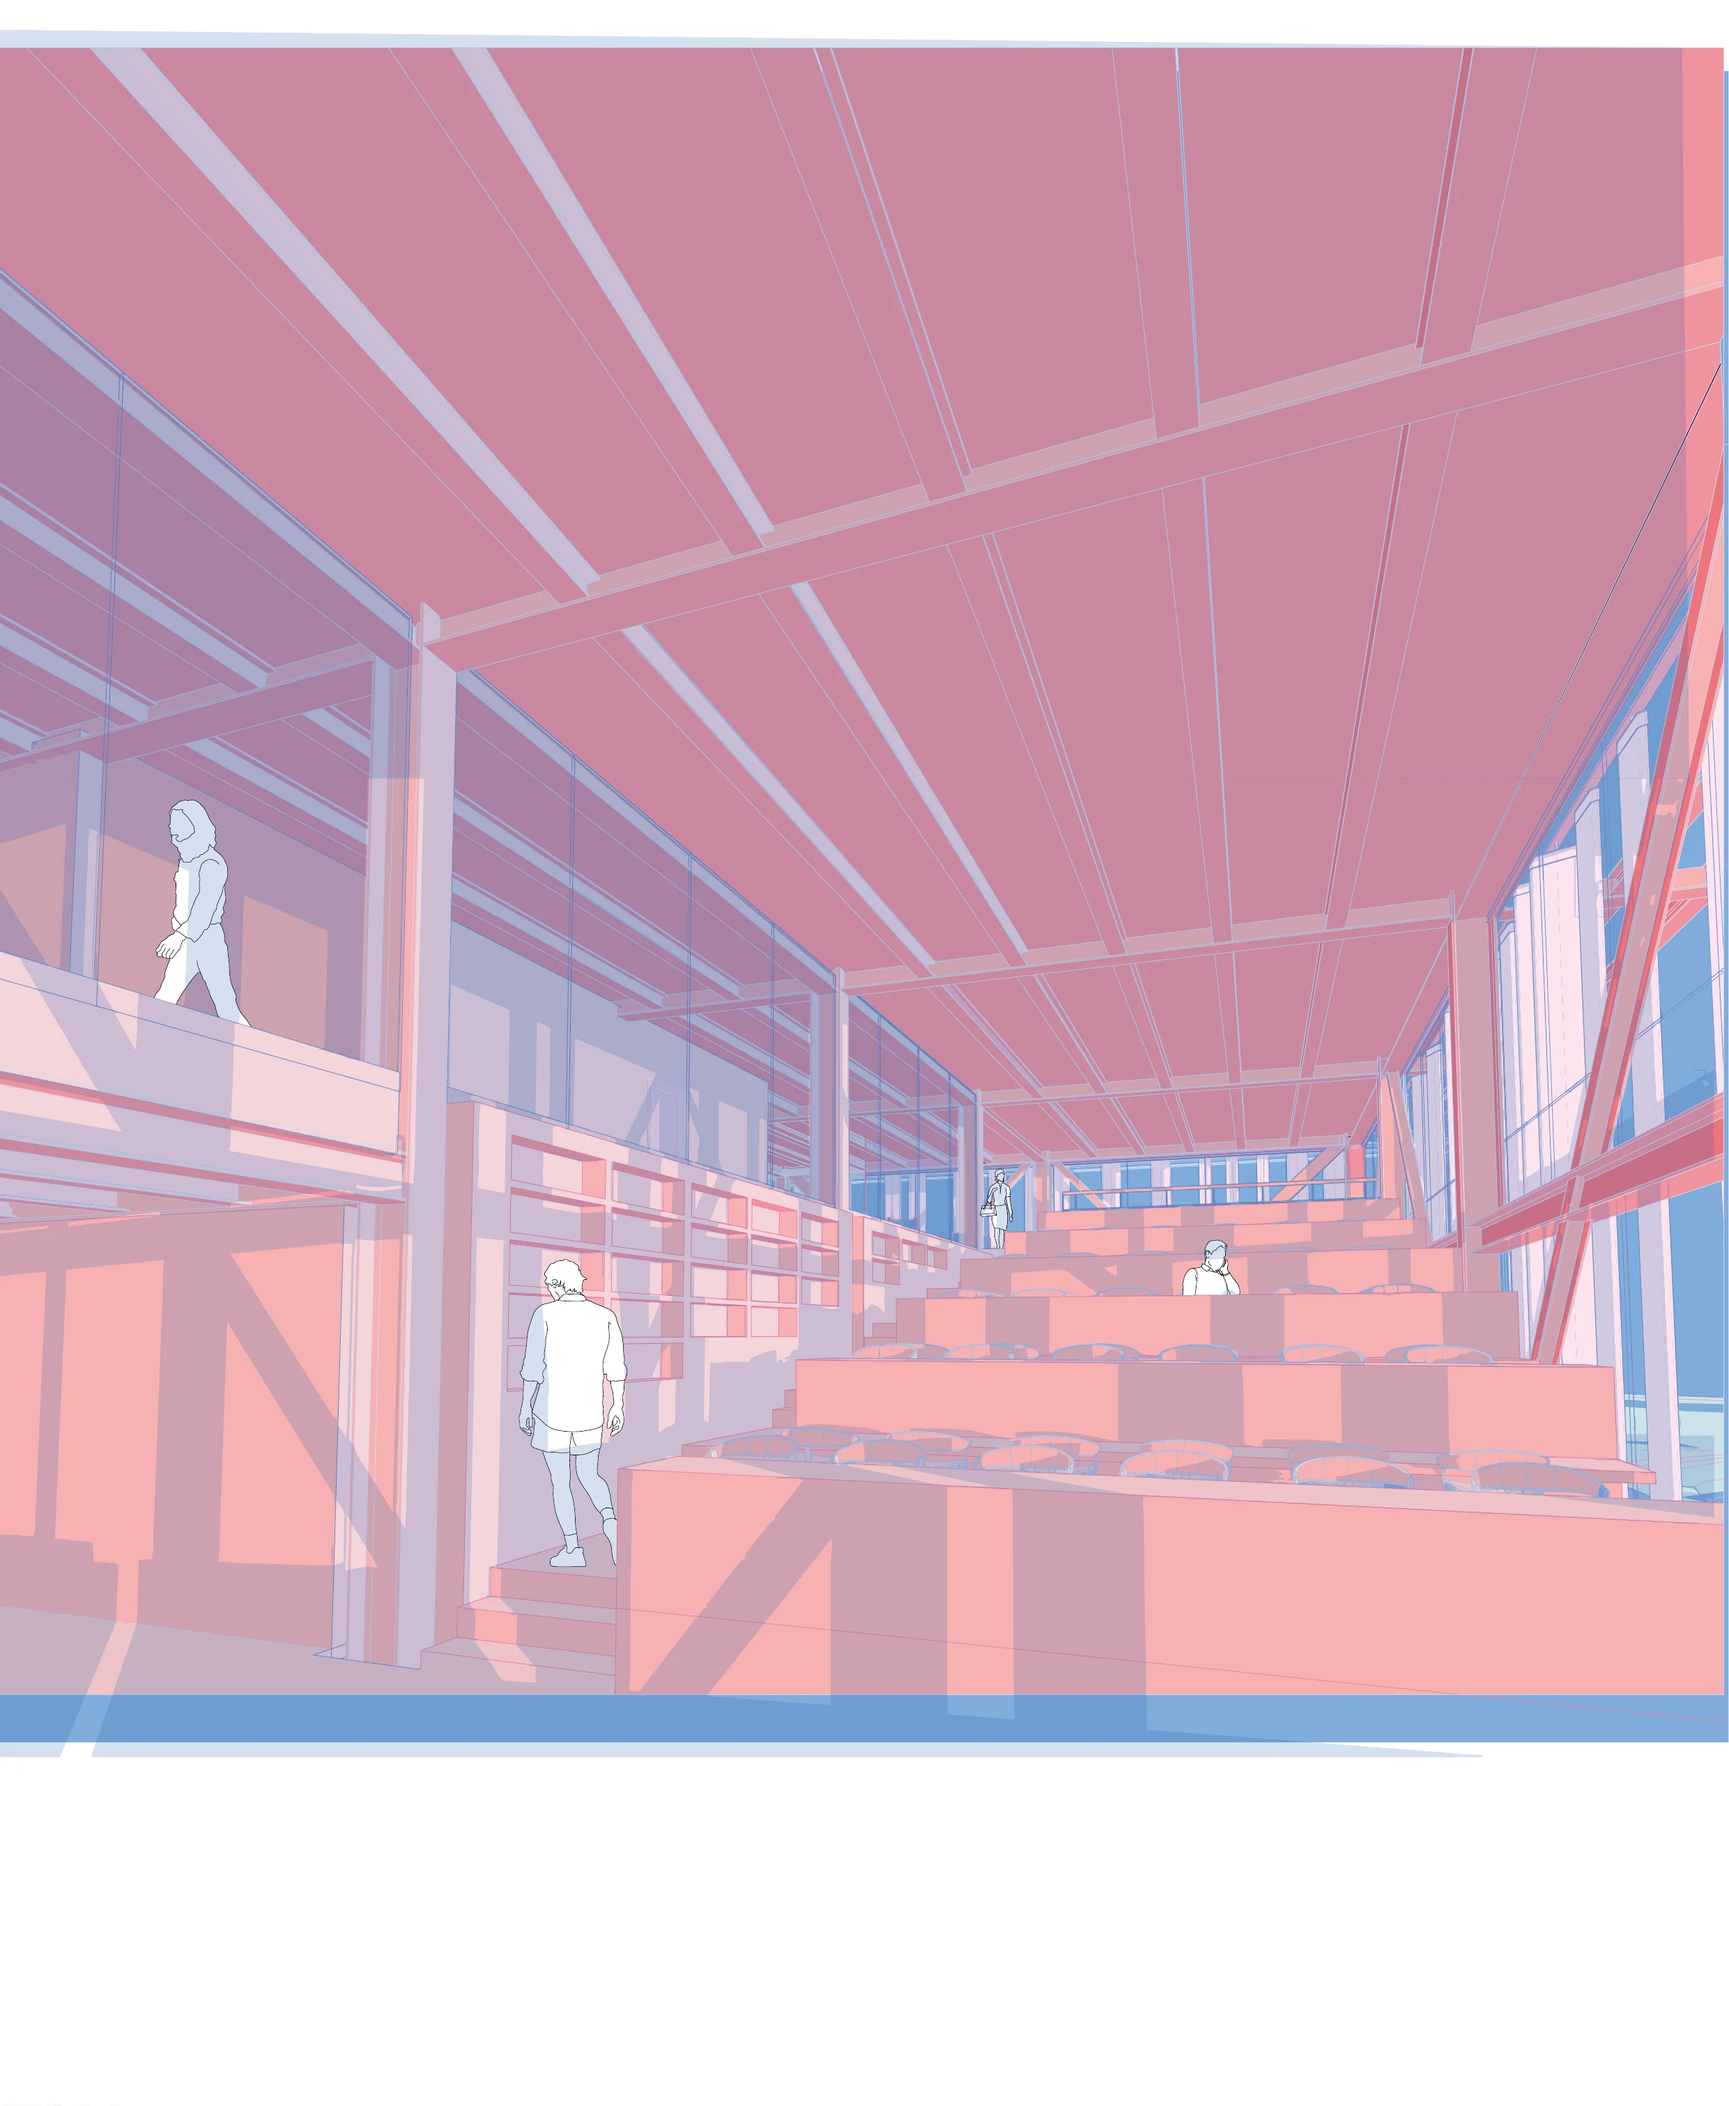
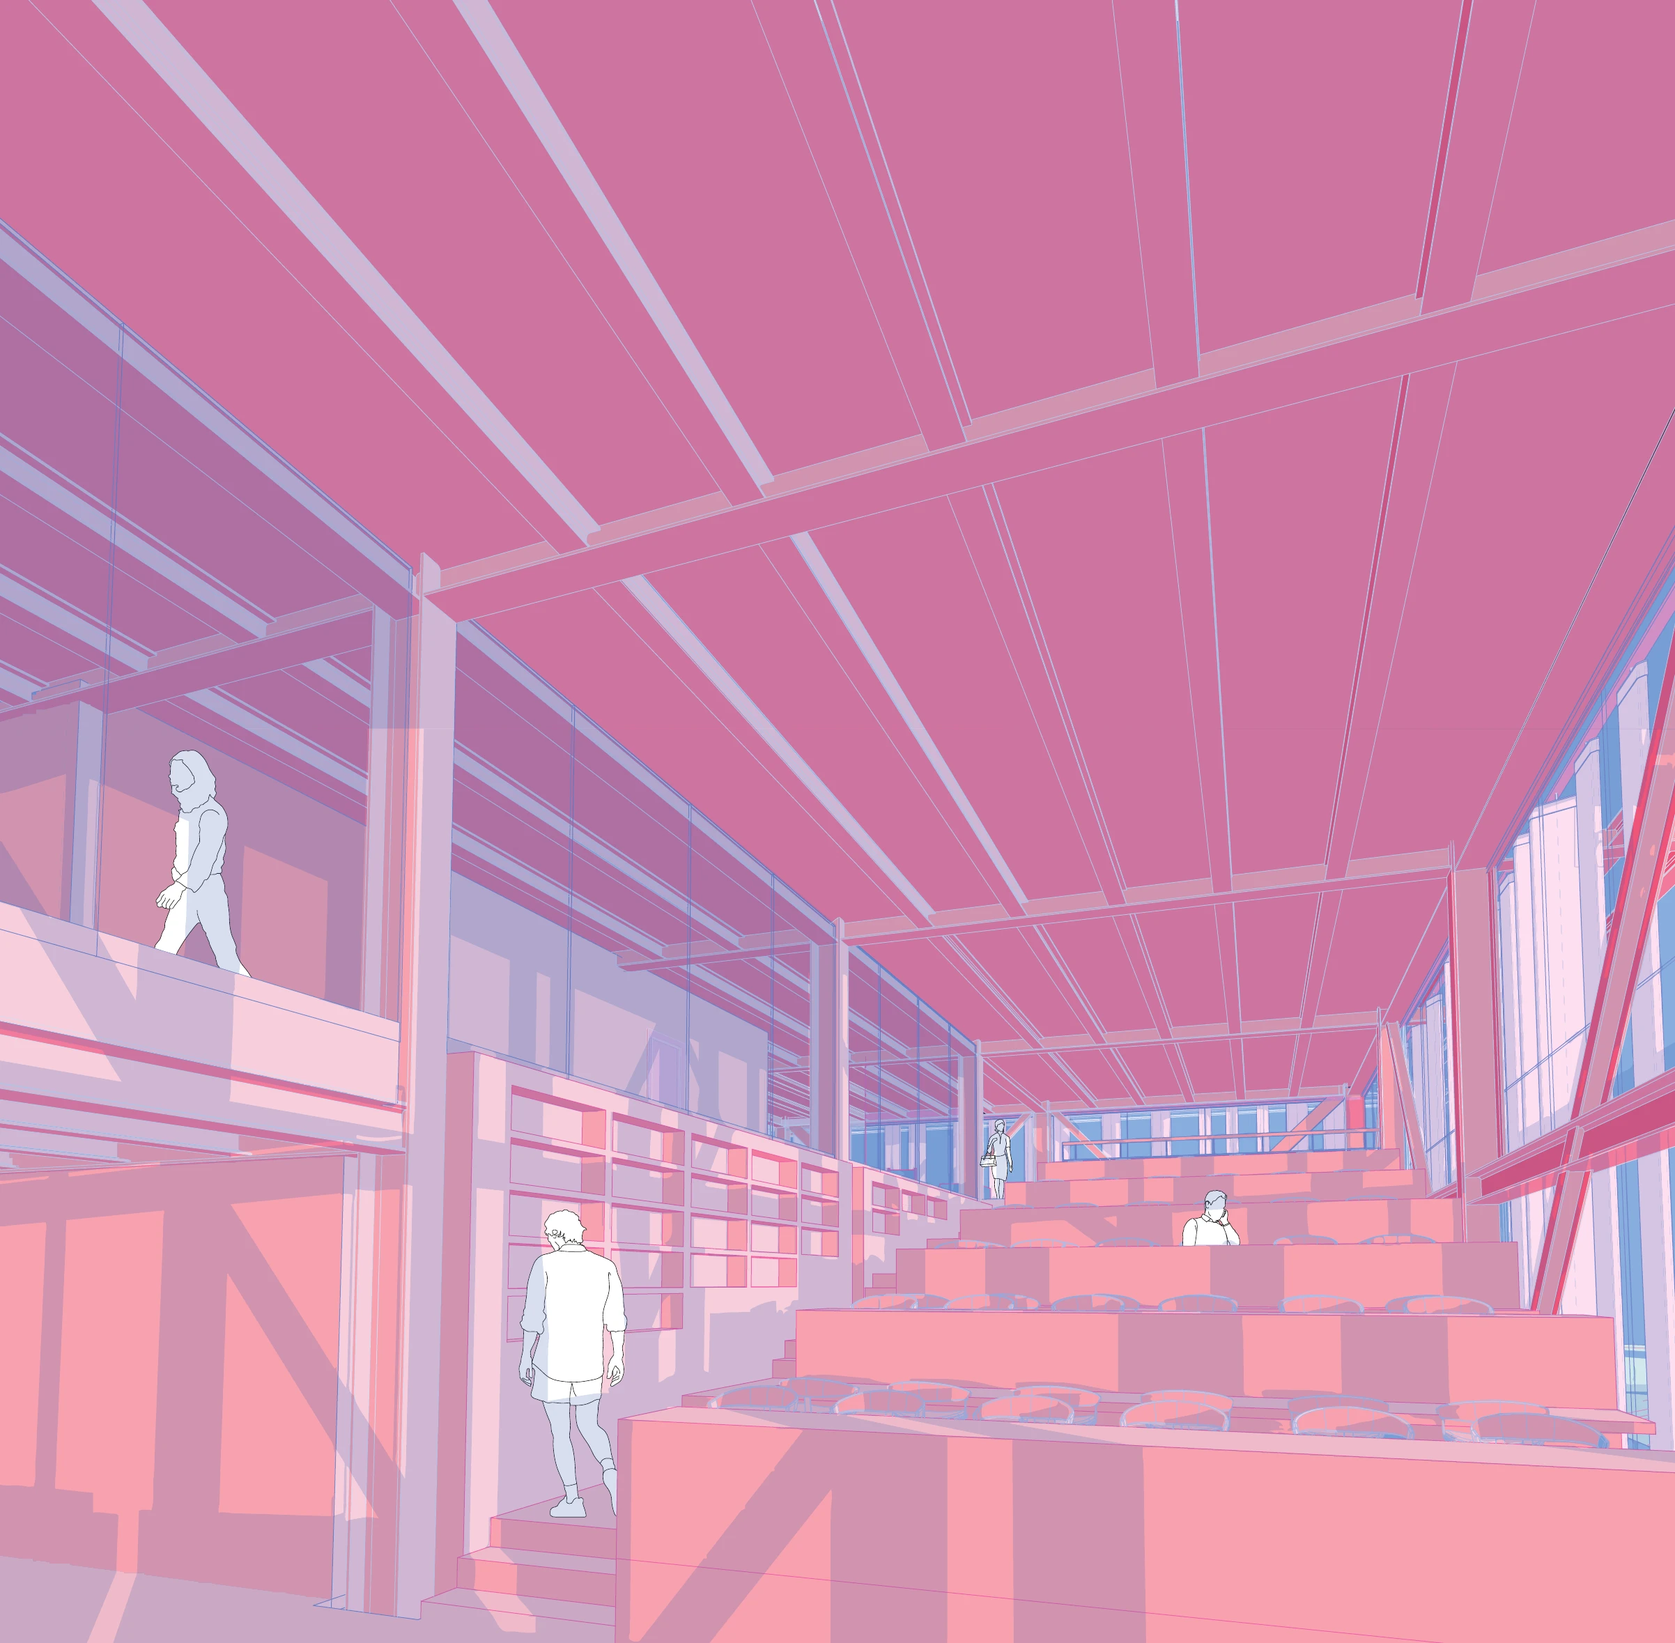
Add files via upload

diff --git a/projects.js b/projects.js
@@ -83,9 +83,9 @@ const PROJECTS = [
       {"src": "images/gone-with-the-cloud/plan-l5.webp", "caption": "Level 5, Library", "w": 1706, "h": 1559, "size": "half", "scale": 0.75, "fit": "start"},
       {"src": "images/gone-with-the-cloud/sections.webp", "caption": "Sections, 1:200", "w": 3400, "h": 1950, "size": "large", "align": "center"},
       {"src": "images/gone-with-the-cloud/details.webp", "caption": "Details, 1:20", "w": 3400, "h": 2778, "size": "wide"},
-      {"src": "images/gone-with-the-cloud/perspective.webp", "caption": "Perspective", "w": 2400, "h": 3395, "size": "large", "align": "center"},
-      {"src": "images/gone-with-the-cloud/interior-1.webp", "caption": "Interior perspective", "w": 2481, "h": 3023, "size": "half"},
-      {"src": "images/gone-with-the-cloud/interior-2.webp", "caption": "Interior perspective", "w": 2000, "h": 2829, "size": "half"}
+      {"src": "images/gone-with-the-cloud/interior-1.webp", "caption": "Interior perspective", "w": 2404, "h": 2358, "size": "half", "align": "center"},
+      {"src": "images/gone-with-the-cloud/perspective.webp", "caption": "Perspective", "w": 2400, "h": 3401, "size": "half", "scale": 0.7, "fit": "end"},
+      {"src": "images/gone-with-the-cloud/interior-2.webp", "caption": "Interior perspective", "w": 2400, "h": 3401, "size": "half", "scale": 0.7, "fit": "start"}
     ]
   },
   {
